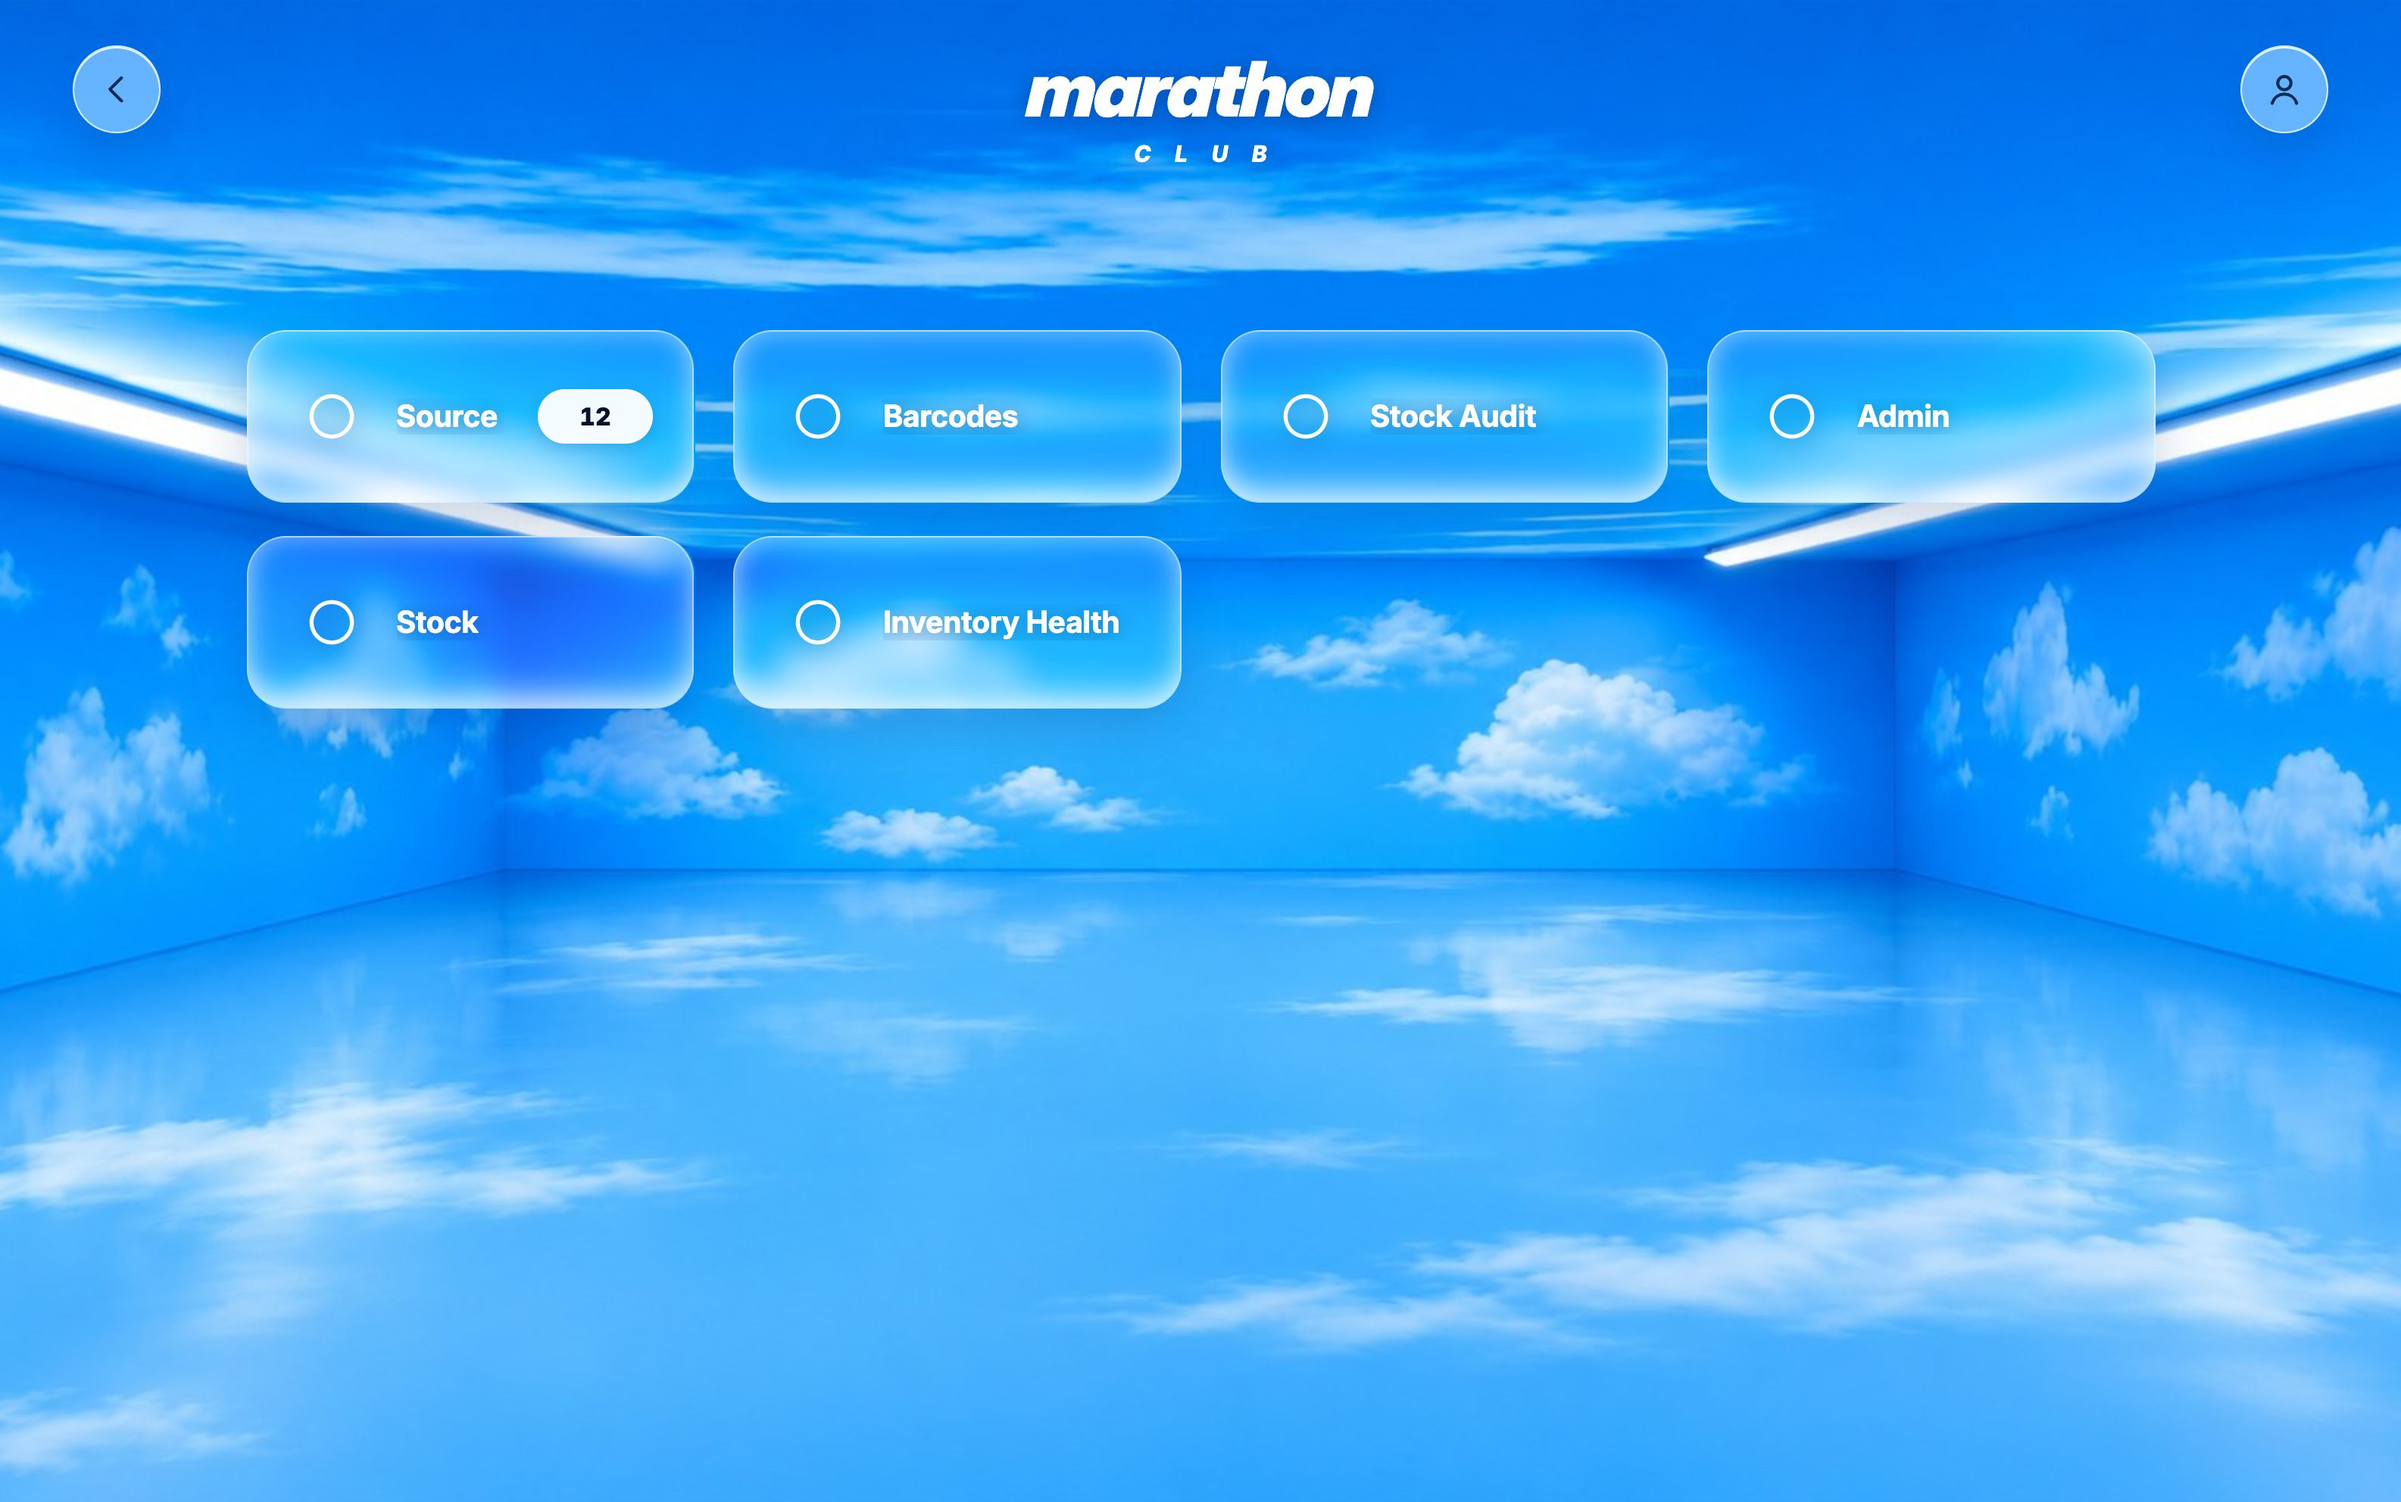
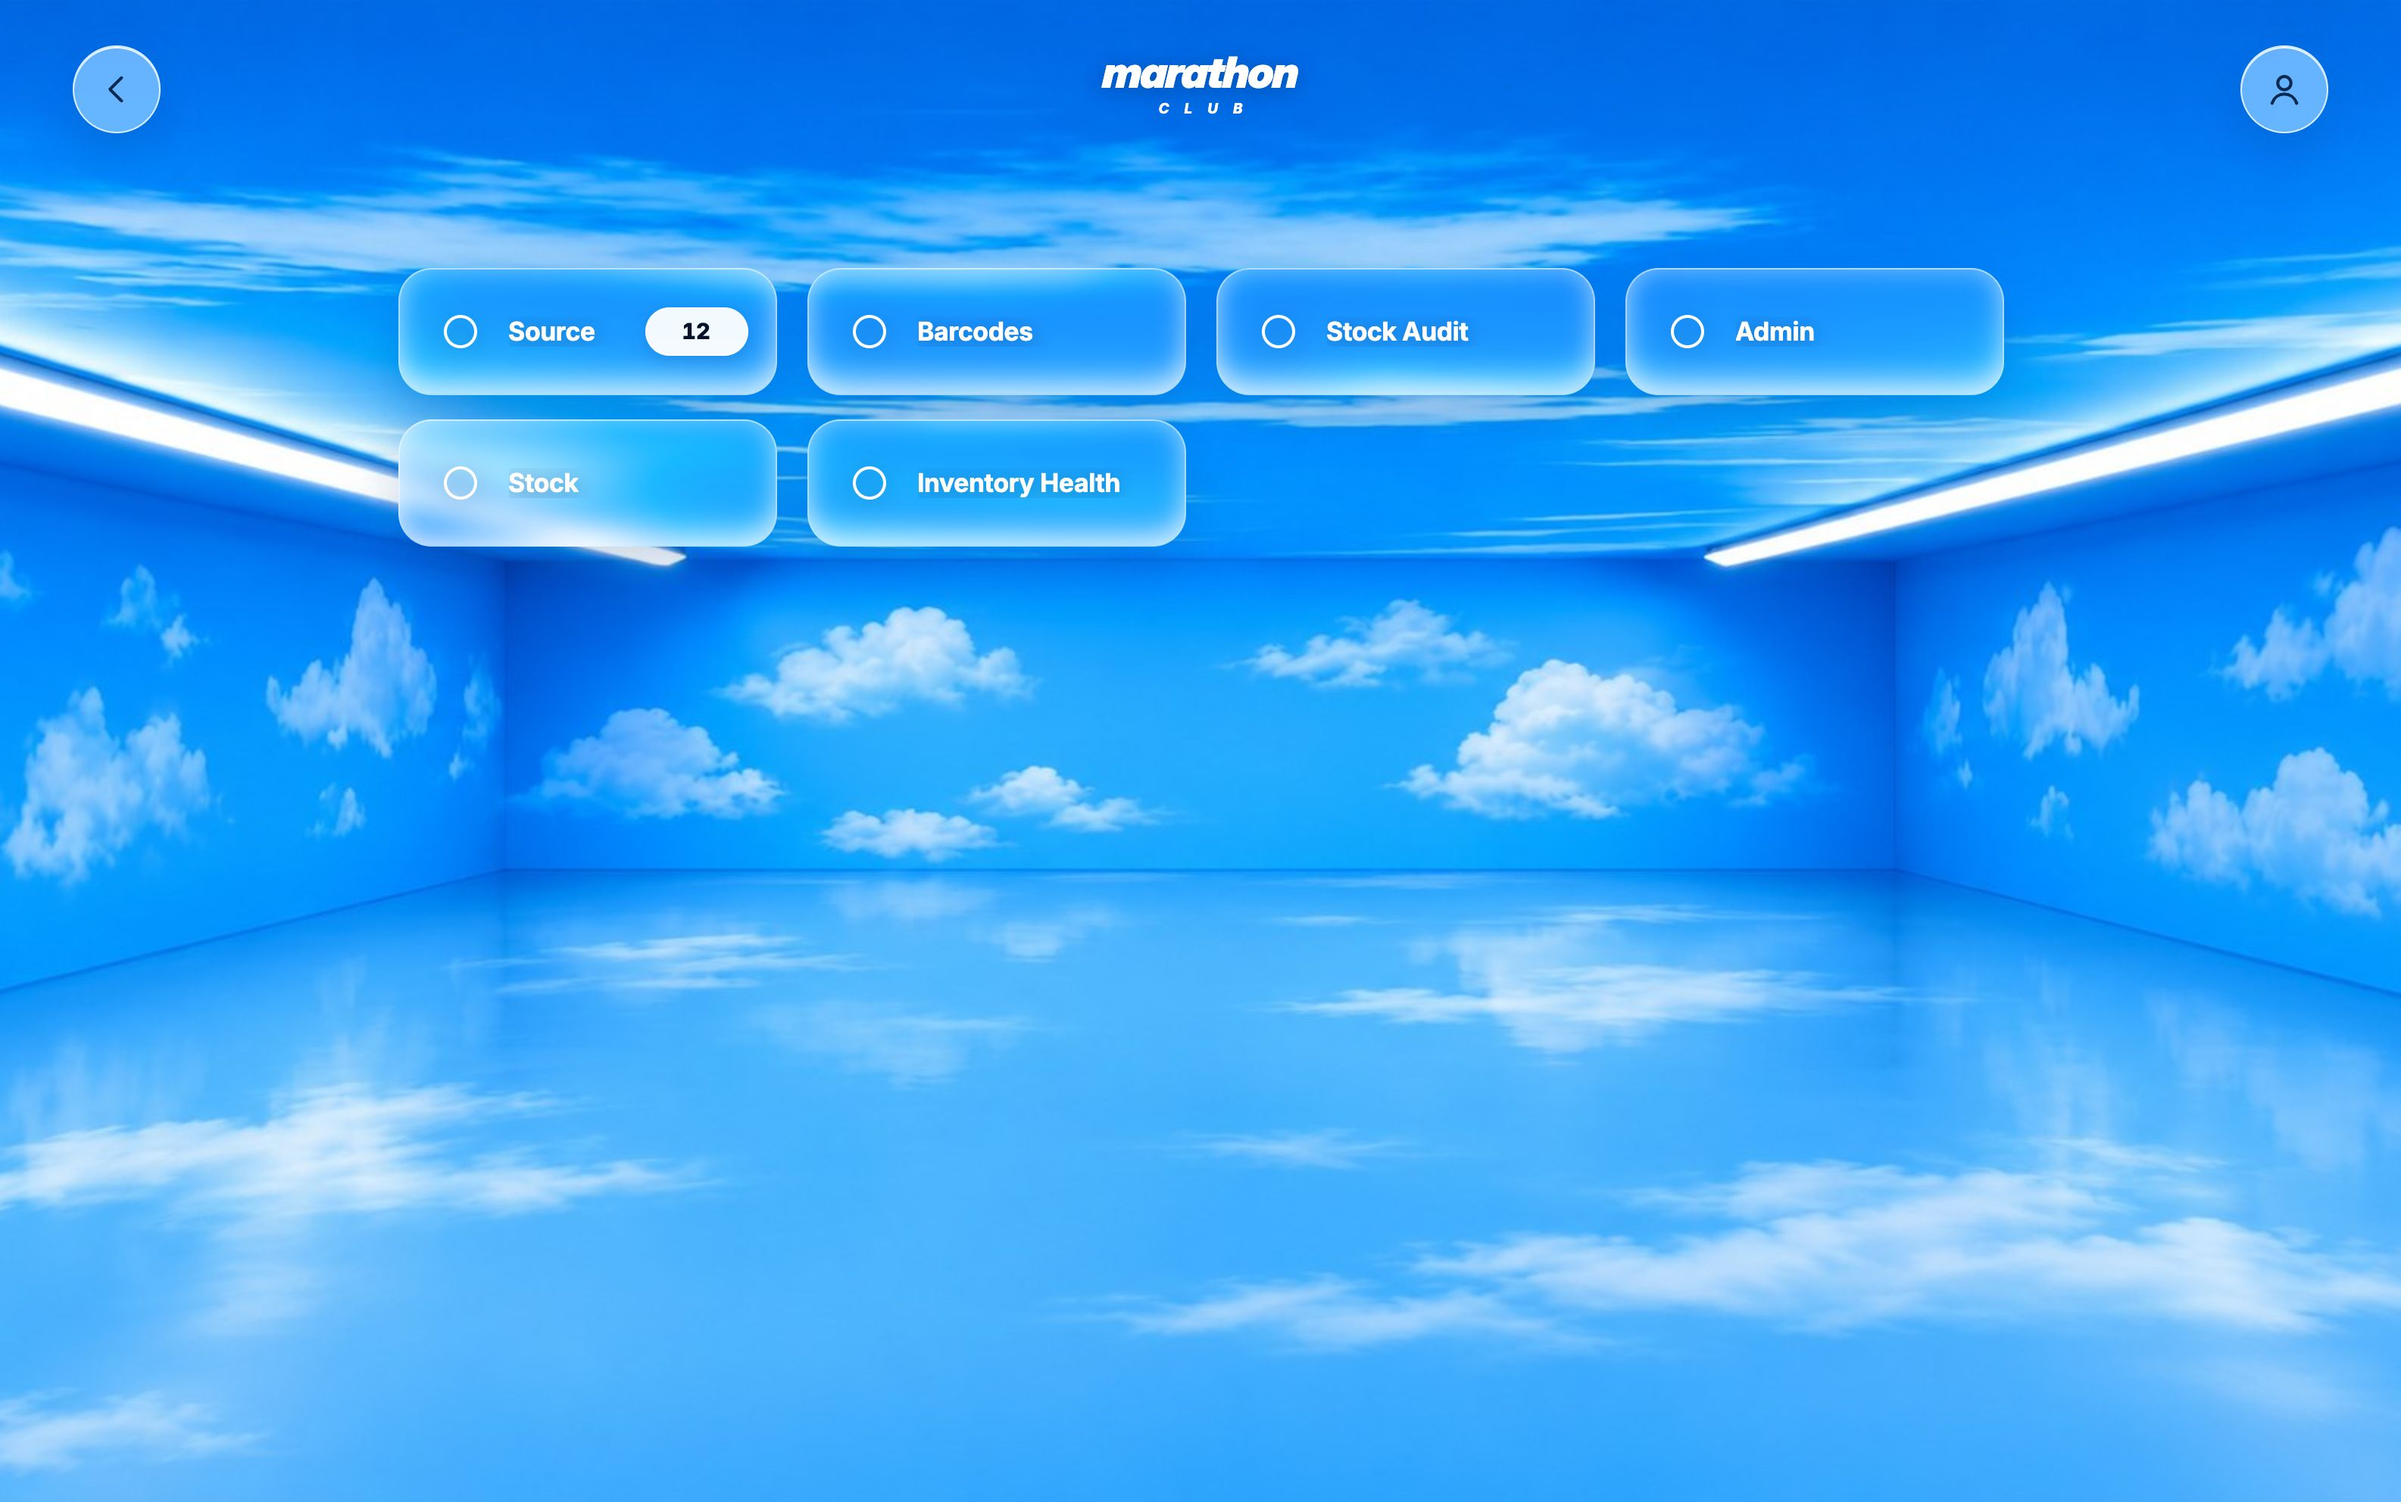
Admin view: a carbon copy of Junid's mock-up (vw-scaled measurements); no live cards on the hub (code kept)

Changed region(s): [[0.0937, 0.1562, 0.9057, 0.5], [0.406, 0.0312, 0.5934, 0.125]]

diff --git a/src/components/sky/SkyHome.jsx b/src/components/sky/SkyHome.jsx
@@ -41,6 +41,7 @@ function Tile({ tile }) {
 function MiniCard({ card }) {
   return (
     <button type="button" className="sky-mini" onClick={card.onClick} data-testid={`home-card-${card.key}`}
+            data-corner={card.badge > 0 && String(card.name).length > 12 ? "1" : undefined}
             title={card.desc || undefined} aria-label={card.desc ? `${card.name} — ${card.desc}` : undefined}>
       <span className="sky-mini__ic">{card.icon}</span>
       <span className="sky-mini__nm" data-contrast-exempt="">{card.name}</span>
@@ -73,16 +74,18 @@ export default function SkyHome({ tiles, groups, liveCards = [], tag, account, e
     .filter((t) => t.key !== "admin" || hasHub);
 
   return (
-    <div className="sky-home" data-testid="sky-home">
+    <div className="sky-home" data-testid="sky-home" data-panel={panel || undefined}>
       <style>{HOME_CSS}</style>
+      {/* Admin view = Junid's mock-up (5 Nov): the grid button (tap again =
+          home), the large wordmark, no pill, no account button. */}
       <SkyHeader large tag={panel === "admin" ? null : tag}
-                 left={panel ? (
+                 left={panel === "account" ? (
                    <button type="button" className="sky-round sky-glass sky-glass--soft" aria-label="Back to home" title="Back" onClick={() => setPanel(null)}>
                      <IconChevronLeft />
                    </button>
                  ) : null}
-                 onGrid={() => setPanel(hasHub ? "admin" : null)} gridLabel="All tools"
-                 onUser={() => setPanel(panel === "account" ? null : "account")} userLabel="Account" />
+                 onGrid={() => setPanel(panel === "admin" ? null : (hasHub ? "admin" : null))} gridLabel={panel === "admin" ? "Back to home" : "All tools"}
+                 onUser={panel === "admin" ? undefined : () => setPanel(panel === "account" ? null : "account")} userLabel="Account" />
 
       {panel === "admin" ? (
         <div className="sky-hub">
@@ -168,7 +171,6 @@ const HOME_CSS = `
 html[data-sky="on"] #root .sky-hub__livecard button[style]{background:rgba(255,255,255,.2) !important;border-color:rgba(255,255,255,.8) !important}
 html[data-sky="on"] #root .sky-hub__livecard button[style]:hover{background:rgba(255,255,255,.4) !important}
 .sky-hub__grid{display:grid;grid-template-columns:repeat(2,minmax(0,1fr));gap:12px}
-@media (min-width:900px){.sky-hub{max-width:1260px;margin-top:max(40px,calc(17vh - 60px))}.sky-hub__grid{grid-template-columns:repeat(4,minmax(0,1fr));gap:22px 26px}}
 .sky-mini{position:relative;display:flex;align-items:center;gap:14px;width:100%;min-height:78px;text-align:left;cursor:pointer;color:#fff;text-shadow:var(--sky-text-shadow);font-family:var(--sky-font);
   padding:12px 14px;border-radius:22px;
   background:linear-gradient(180deg,rgba(255,255,255,.07),rgba(255,255,255,.12) 70%,rgba(255,255,255,.2));
@@ -186,13 +188,35 @@ html[data-sky="on"] #root .sky-hub__livecard button[style]:hover{background:rgba
   background:rgba(255,255,255,.95);border:1px solid #fff;font-variant-numeric:tabular-nums;box-shadow:0 4px 12px rgba(10,60,140,.18)}
 /* Phone: the badge rides the tile's top-right corner so the name keeps its room. */
 @media (max-width:899px){.sky-mini__bd{position:absolute;top:8px;right:8px;min-width:34px;height:24px;padding:0 8px;font-size:12.5px}}
+/* DESKTOP ADMIN VIEW — a carbon copy of Junid's mock-up (5 Nov), measured at
+   1586x942 and written in vw (base 1586) so a smaller window scales it down
+   instead of looking zoomed in. Grid 1224 wide from y=202; tiles ~290x113,
+   gaps 25/23; icon 40 at 36, name 21px bold at 108; badge 30 high, 24 in
+   (or in the corner, 11/12 in, when the name is long). Header: grid button
+   62 at 41/13, wordmark 48px. */
 @media (min-width:900px){
-  .sky-mini{min-height:114px;padding:16px 26px 16px 34px;gap:22px;border-radius:26px}
-  .sky-mini__ic{width:42px;height:42px}
-  .sky-mini__ic svg{width:40px !important;height:40px !important}
-  .sky-mini__nm{font-size:20px;white-space:nowrap}
-  .sky-mini__bd{min-width:54px;height:34px;font-size:16px}
+  .sky-home[data-panel="admin"] .sky-header{padding:.82vw 2.59vw 0}
+  .sky-home[data-panel="admin"] .sky-header .sky-round{width:3.91vw !important;height:3.91vw !important;min-width:46px;min-height:46px}
+  .sky-home[data-panel="admin"] .sky-round svg{width:1.7vw;height:1.7vw;min-width:20px;min-height:20px}
+  .sky-home[data-panel="admin"] .sky-logo--lg .sky-logo__m{font-size:3.03vw}
+  .sky-home[data-panel="admin"] .sky-logo--lg .sky-logo__c{font-size:.95vw;margin-top:.63vw;font-style:normal;font-weight:600}
+  .sky-hub{position:absolute;left:0;right:0;top:12.74vw;max-width:77.18vw;margin:0 auto;padding:0 0 40px}
+  .sky-hub__grid{grid-template-columns:repeat(4,minmax(0,1fr));gap:1.45vw 1.58vw}
+  .sky-mini{height:7.12vw;min-height:0;padding:0 1.2vw 0 2.27vw;gap:1.7vw;border-radius:1.39vw;
+    background:rgba(255,255,255,.26);border:1.5px solid rgba(255,255,255,.62);
+    box-shadow:inset 0 1px 0 rgba(255,255,255,.55),inset 0 0 18px rgba(255,255,255,.16),0 10px 26px rgba(10,60,140,.14);
+    -webkit-backdrop-filter:blur(18px) saturate(115%) brightness(1.06);backdrop-filter:blur(18px) saturate(115%) brightness(1.06);text-shadow:0 1px 6px rgba(0,40,110,.3)}
+  .sky-mini:hover{background:rgba(255,255,255,.34)}
+  .sky-mini__ic{width:2.65vw;height:2.65vw}
+  .sky-mini__ic svg{width:2.65vw !important;height:2.65vw !important;stroke-width:1.9;filter:drop-shadow(0 1px 6px rgba(0,40,110,.3)) !important}
+  .sky-mini__nm{font-size:1.2vw;font-weight:700;letter-spacing:-.015em;white-space:nowrap}
+  .sky-mini__bd{position:absolute;right:1.51vw;top:50%;transform:translateY(-50%);min-width:0;height:1.89vw;padding:0 .76vw;border-radius:999px;
+    font-size:1.01vw;font-weight:800;color:#0b2a52;background:#fff;border:0;box-shadow:0 2px 8px rgba(10,60,140,.16)}
+  .sky-mini[data-corner="1"] .sky-mini__nm{overflow:visible}
+  .sky-mini:has(.sky-mini__bd):not([data-corner="1"]) .sky-mini__nm{padding-right:4.2vw}
+  .sky-mini[data-corner="1"] .sky-mini__bd{top:.69vw;right:.76vw;transform:none}
 }
+
 .sky-acct-wrap{position:fixed;inset:0;z-index:80;display:flex;justify-content:flex-end;align-items:flex-start;padding:calc(env(safe-area-inset-top,0px) + 74px) 14px 14px}
 .sky-acct{width:min(380px,100%);border-radius:24px;padding:18px 16px 16px;color:var(--sky-ink);background:var(--sky-glass-strong)}
 .sky-acct__x{position:absolute;top:12px;right:12px;width:32px;height:32px;border-radius:50%;border:1px solid #fff;background:rgba(255,255,255,.7);color:var(--sky-ink);display:grid;place-items:center;cursor:pointer}

diff --git a/src/dev/skyHarness.jsx b/src/dev/skyHarness.jsx
@@ -53,7 +53,12 @@ function SampleLive({ title, body }) {
   );
 }
 
-function Home() {
+// ?mock=1: the admin view with the 16 tools of Junid's 5 Nov mock-up, real icons.
+const MOCK_TOOLS = [["source", "Source", 600], ["barcodes", "Barcodes"], ["label_print", "Print Labels"], ["stock_audit", "Stock Audit"],
+  ["insights", "Internal Insights"], ["display", "TV Display"], ["customer", "Track Order"], ["customers_db", "Customers"],
+  ["admin", "Admin"], ["stock", "Stock"], ["health", "Inventory Health"], ["marketing", "Marketing"],
+  ["new_arrivals", "New Arrivals"], ["shopify_publish", "Shopify Publish", 1022], ["social", "Social"], ["ai_studio", "AI Studio"]];
+function Home({ icons = null }) {
   const noop = () => {};
   const icon = <svg viewBox="0 0 24 24" width="20" height="20" fill="none" stroke="#4A7FFF" strokeWidth="2"><circle cx="12" cy="12" r="8" /></svg>;
   return (
@@ -69,7 +74,7 @@ function Home() {
         { key: "display_checks", name: "Display Check", onClick: noop },
         { key: "admin", name: "Admin" },
       ]}
-      groups={[
+      groups={icons && q.get("mock") ? [{ label: "All", cards: MOCK_TOOLS.map(([key, name, badge]) => ({ key, icon: icons[key], name, desc: name, badge, onClick: noop })) }] : [
         { label: "Operations", cards: [{ key: "source", icon, name: "Source", desc: "Restock requests", badge: 12, onClick: noop }, { key: "barcodes", icon, name: "Barcodes", desc: "Print product barcodes", onClick: noop }, { key: "stock_audit", icon, name: "Stock Audit", desc: "Out of stock checks & audit", onClick: noop }] },
         { label: "Administration", cards: [{ key: "admin", icon, name: "Admin", desc: "Manage products", onClick: noop }, { key: "stock", icon, name: "Stock", desc: "Inventory & transfers", onClick: noop }, { key: "health", icon, name: "Inventory Health", desc: "Refill engine & exceptions", onClick: noop }] },
       ]}
@@ -204,7 +209,8 @@ function Barcodes({ products, BcsCard, css, Studio, SkyHeader }) {
   } else if (screen === "phone") {
     el = <Phone products={products.slice(0, Number(q.get("n") || 16))} />;
   } else {
-    el = <Home />;
+    const { RoleIcons } = q.get("mock") ? await import("../App.jsx") : {};
+    el = <Home icons={RoleIcons || null} />;
   }
   createRoot(document.getElementById("root")).render(el);
 })();

diff --git a/src/App.jsx b/src/App.jsx
@@ -2968,7 +2968,7 @@ function CustomerDrillModal({ drill, detail, onClose, fmt }) {
 
 // ─── ROLE SELECTOR ────────────────────────────────────────────────────────────
 // ── Role icon SVGs (match HTML design exactly) ─────────────────────────────
-const RoleIcons = {
+export const RoleIcons = {
   stock_audit: (
     <svg viewBox="0 0 24 24" width="30" height="30" stroke="#4A7FFF" fill="none" strokeWidth="1.7" strokeLinecap="round" strokeLinejoin="round">
       <path d="M20 12v7a2 2 0 0 1-2 2H6a2 2 0 0 1-2-2V5a2 2 0 0 1 2-2h9"/><path d="M9 11l3 3 7-7"/>
@@ -3382,6 +3382,12 @@ function MiniTile({ icon, name, desc, badge, onClick }) {
   );
 }
 
+// Junid 5 Nov: the admin hub shows NO live cards (Hub Count & Displays,
+// Shipment Release, Display Registration) — "remove them from this screen
+// entirely, don't delete the code". Their builders stay below; true brings
+// all three back (the phone still leaves out the first two).
+const SHOW_HUB_LIVE_CARDS = false;
+
 function RoleSelector({ onSelect, orders, returnsLog, products, hasPermission, canAccessStock, isSuperAdmin, push, mute }) {
   const { user: homeUser, permRecord: homePerm, signOut: homeSignOut, deviceIdentity: homeDevice } = usePermissions();
   // Engine Policy's tile gate reads the FIREBASE AUTH email and the permFlags
@@ -3677,7 +3683,7 @@ function RoleSelector({ onSelect, orders, returnsLog, products, hasPermission, c
     <SkyHome
       tiles={homeTiles}
       groups={hubGroups}
-      liveCards={[["hubCount", isPhoneHome ? null : hubCountCard], ["stockHold", isPhoneHome ? null : stockHoldCard], ["displayReg", displayRegCard]]}
+      liveCards={SHOW_HUB_LIVE_CARDS ? [["hubCount", isPhoneHome ? null : hubCountCard], ["stockHold", isPhoneHome ? null : stockHoldCard], ["displayReg", displayRegCard]] : []}
       tag={homeTag}
       emptyMessage="No tools assigned to your account yet. Ask an admin to update your permissions."
       account={{

diff --git a/design/DNA.md b/design/DNA.md
@@ -109,9 +109,10 @@ prices 700–800 tabular, "R" and no decimals.
   (the home-tile recipe): white line icon, white bold name, the badge a white
   pill with navy number; no group headings, no descriptions (they are the
   tooltip), no ADMIN pill. 4-up from 900px, 2-up on the phone with the badge
-  in the tile's corner. Live cards (Hub Count & Displays, Shipment Release,
-  Display Registration) sit above, each its own glass; on the PHONE Hub
-  Count & Displays and Shipment Release are not mounted (code kept).
+  in the tile's corner. Desktop tiles are 84px tall and the wordmark is the
+  ordinary (not large) one here. NO live cards on this screen (Junid 5 Nov:
+  Hub Count & Displays, Shipment Release, Display Registration removed; the
+  code stays, `SHOW_HUB_LIVE_CARDS = false` in App.jsx brings them back).
 
 ## 6. Layout
 - Phone (reference 426px wide): 16–18px gutters; home = 2×2 tiles of ≈183×180
